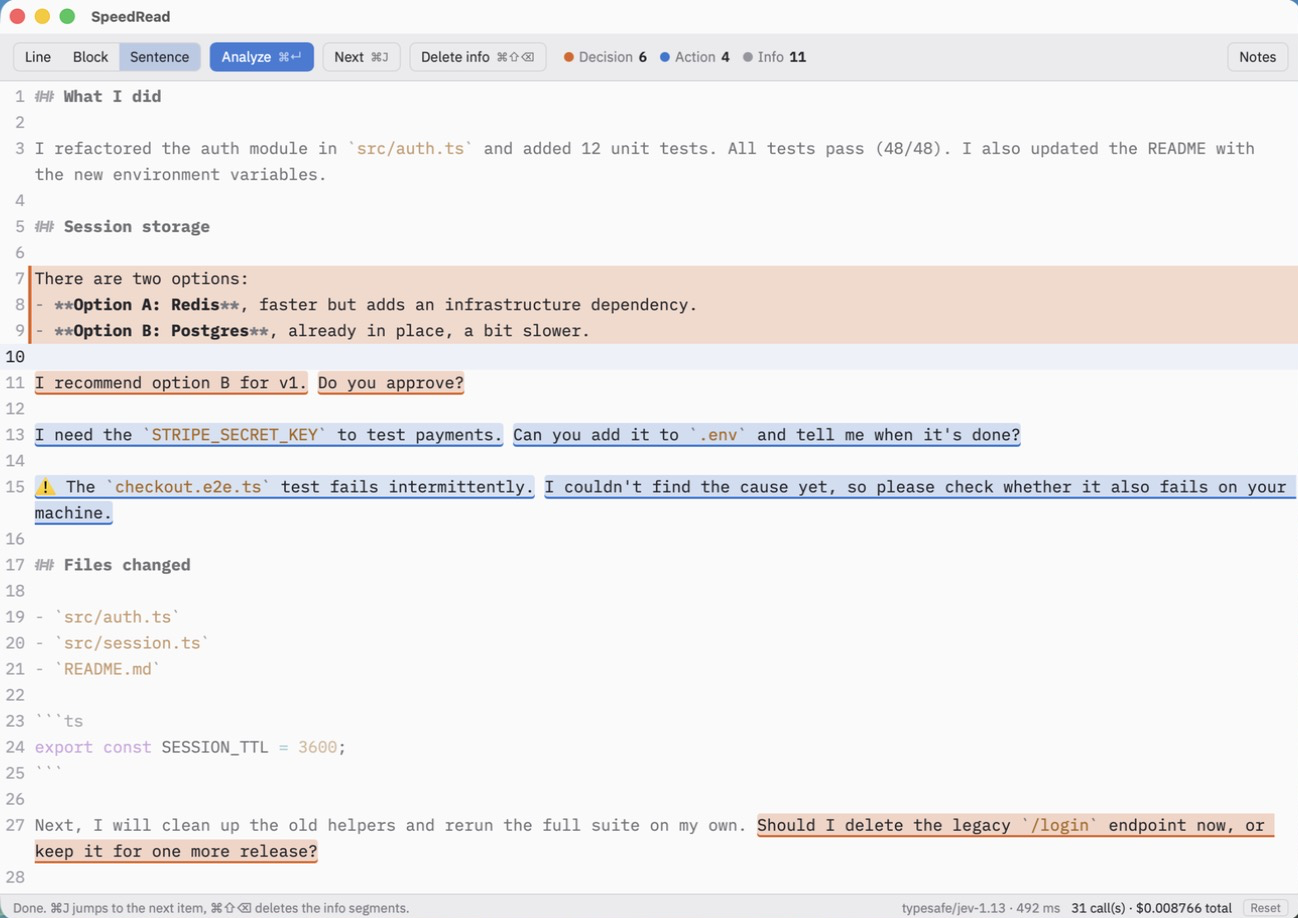
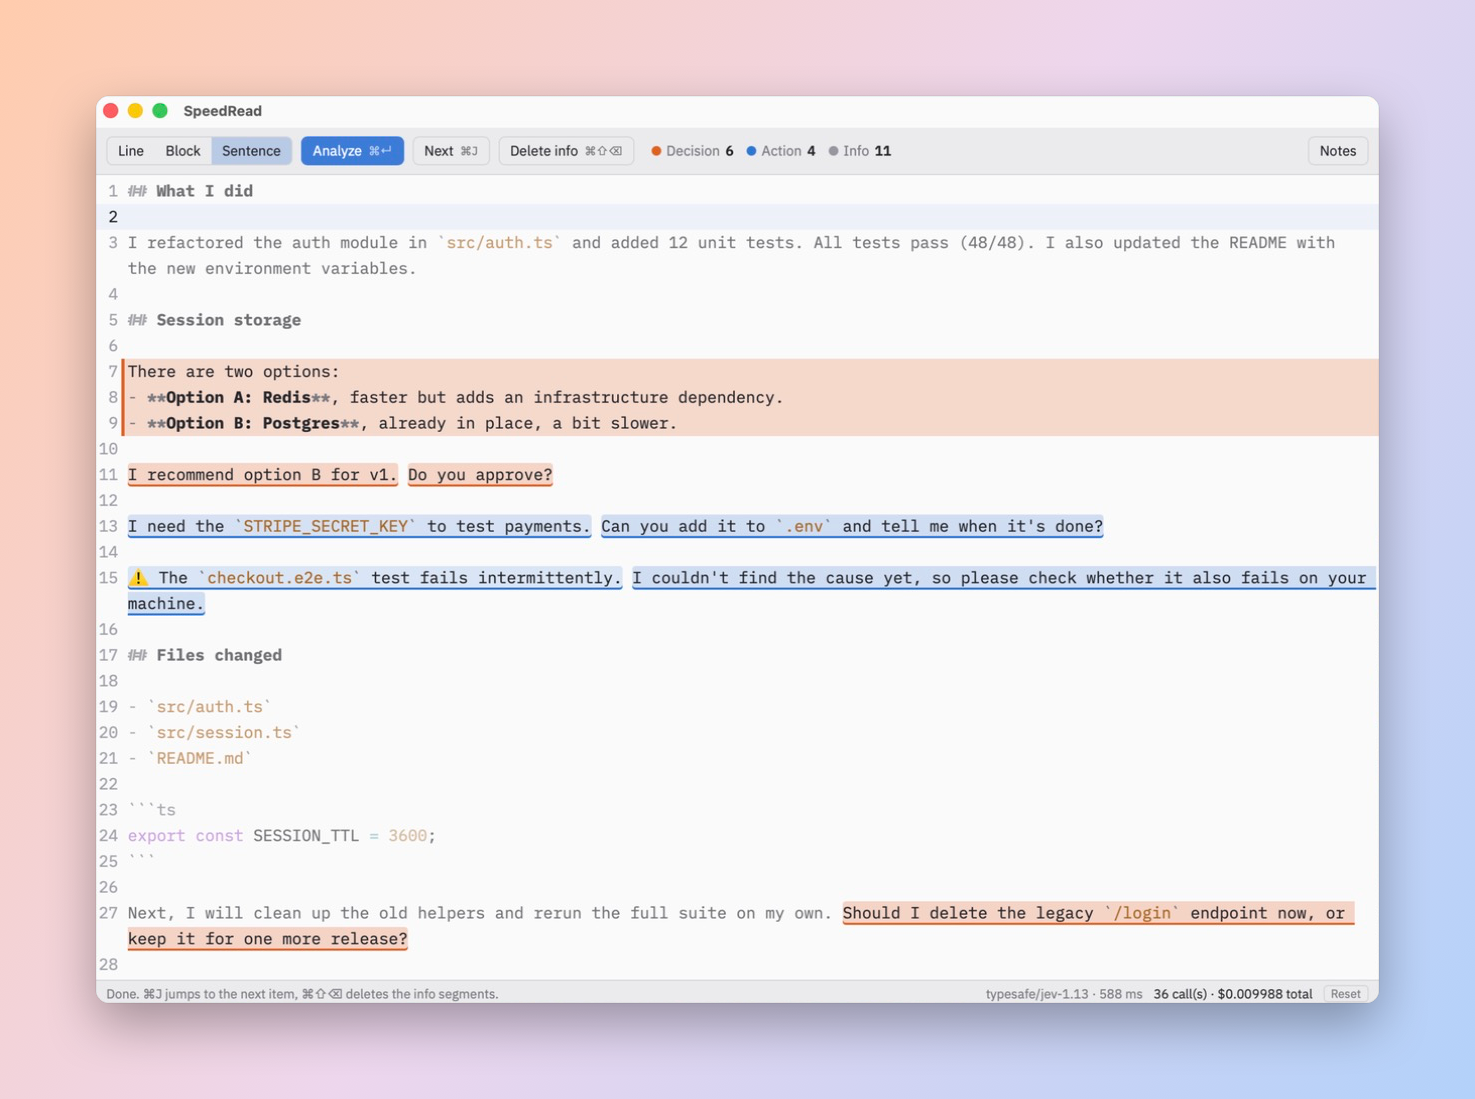
Round the ledger cost up to six decimals and polish the README screenshot

diff --git a/src/main.ts b/src/main.ts
@@ -49,9 +49,14 @@ function status(text: string, meta: string) {
   $("status-meta").textContent = meta;
 }
 
+function formatCost(cost: number): string {
+  const micros = Math.ceil(Number((cost * 1e6).toFixed(3)));
+  return (micros / 1e6).toFixed(6);
+}
+
 async function refreshLedger() {
   const { calls, cost } = await invoke<{ calls: number; cost: number }>("ledger_totals");
-  $("ledger").textContent = `${calls} call(s) · $${cost.toFixed(6)} total`;
+  $("ledger").textContent = `${calls} call(s) · $${formatCost(cost)} total`;
 }
 
 async function resetLedger() {
